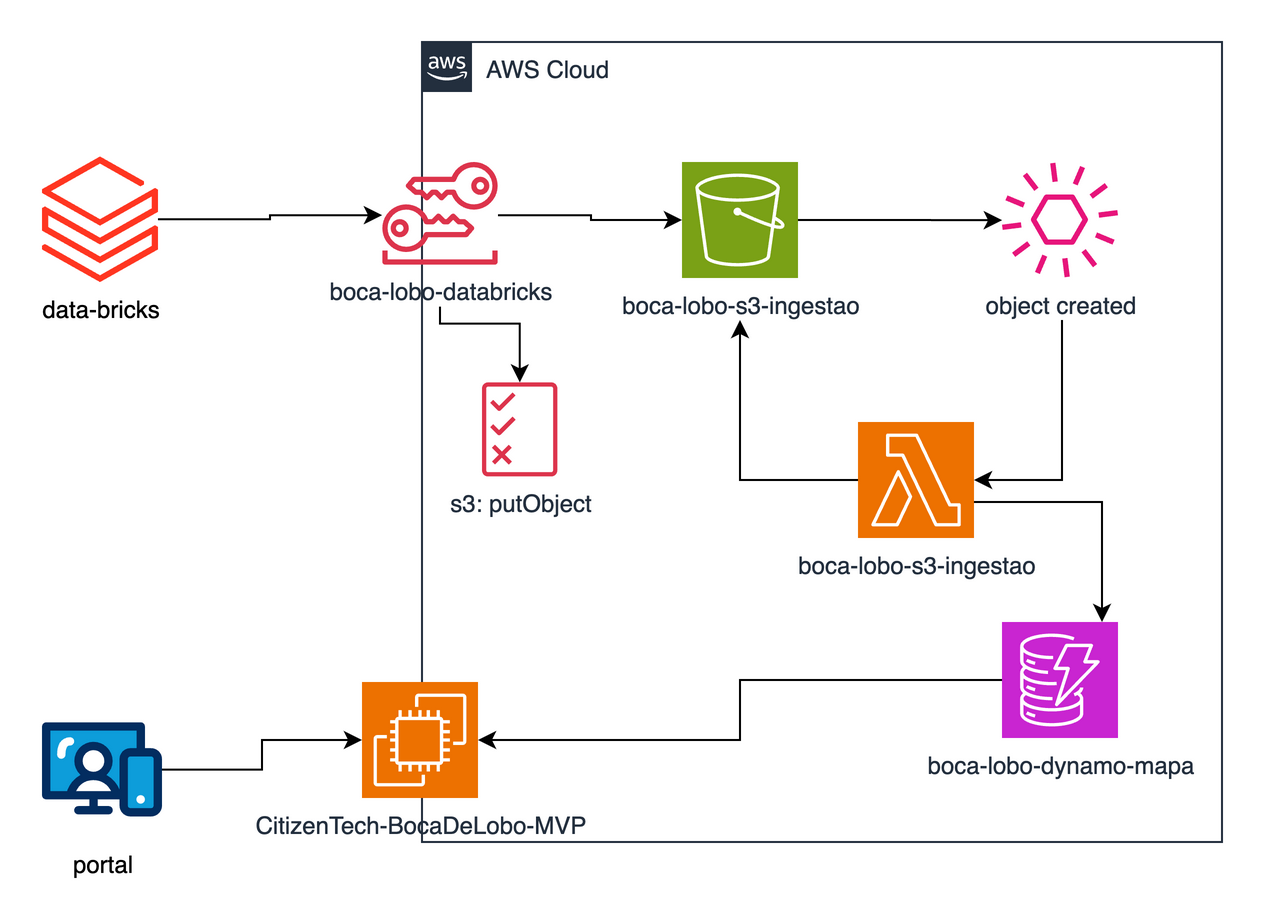
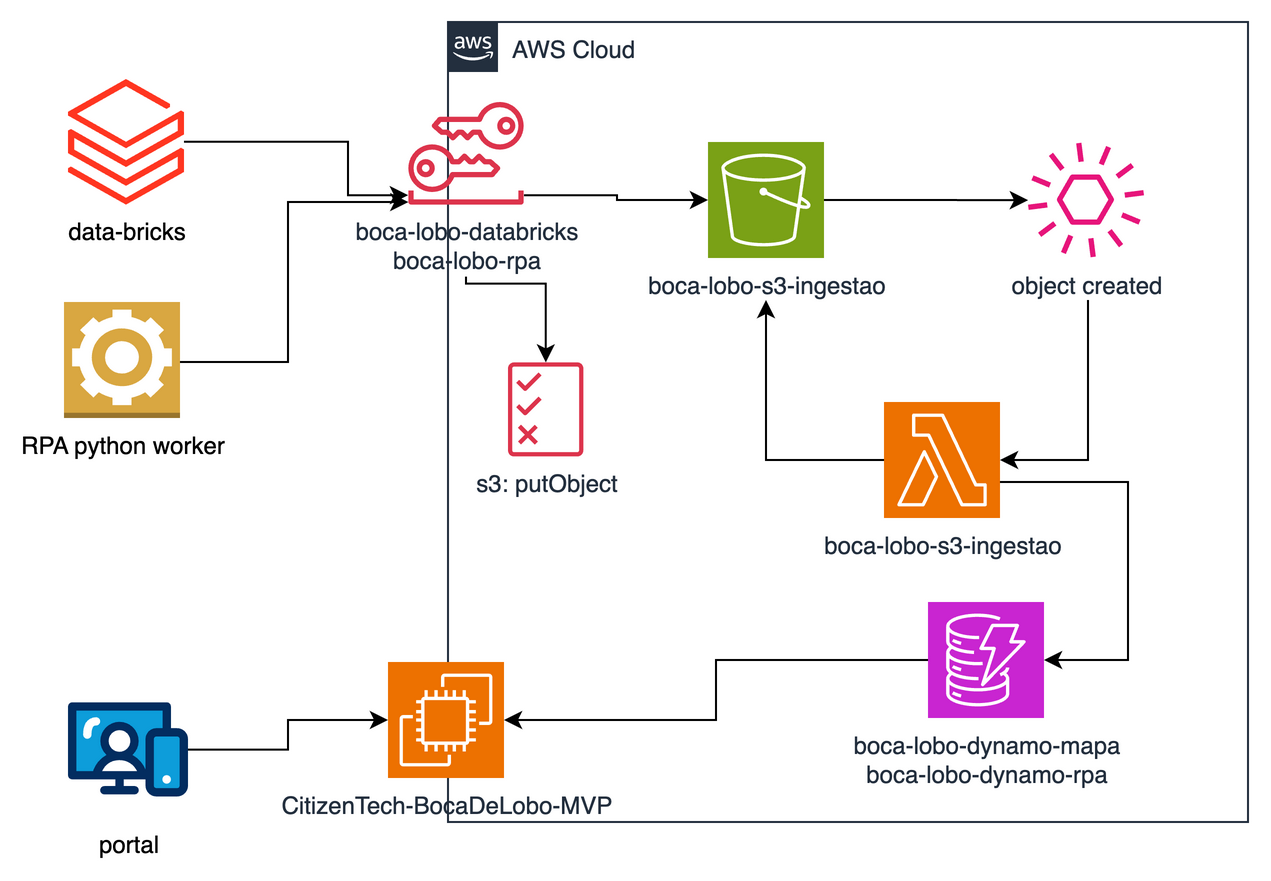
docs: fluxo do RPA, diagrama novo e ficha do produto
- readme: ficha do produto, fluxo por pasta e seção do fluxo do RPA
- docs/ingestao-dados.md: detalhes dos fluxos RPA e Databricks
- docs/arquitetura.drawio/png: diagrama atualizado com o RPA

Changed region(s): [[0.0, 0.0, 0.9866, 0.9501], [0.0308, 0.7662, 0.2158, 0.9807], [0.5858, 0.4904, 0.6166, 0.521]]

diff --git a/readme.md b/readme.md
@@ -5,15 +5,29 @@
 ## 🎯 Objetivo do Projeto
 O **Boca de Lobo** é um MVP de engenharia de software focado em segurança e emergências urbanas (enchentes). Antes de cada temporal, o sistema cruza o status de obstrução de bueiros/sarjetas com previsões meteorológicas para disparar ações preventivas para a equipe de limpeza e alertas de rota segura para moradores de regiões de risco.
 
+## 📋 Ficha do produto
+| Campo | Resposta |
+|---|---|
+| Nome do produto | Boca de Lobo |
+| Cidadão e território | Morador de bairro que alaga todo verão, principalmente em áreas baixas e periféricas de São Paulo (piloto na zona leste) |
+| Problema, em uma frase | Bueiro entupido + chuva forte = rua alagada, carro perdido e casa invadida, e ninguém avisa antes |
+| Proposta de valor | Saber antes da chuva quais bueiros estão entupidos em área de risco: a equipe de limpeza recebe a rota priorizada, e o morador sabe onde não passar e o que fazer |
+| Arquitetura: componentes | Robô de inspeção (Maker Lab) · YOLO + graduador de obstrução (Visão) · assistente com RAG e agente (GenAI) · pipeline Airflow → Databricks Bronze/Prata/Ouro (Big Data) · bot de alertas (RPA) · deploy na AWS com observabilidade (DevOps) · modelo de negócio (BI) · mapa público do cidadão (MVP) |
+| Fontes de dados | Open-Meteo (previsão de chuva) · Cemaden (pluviômetros) · GeoSampa (áreas de risco) · SP156 (pedidos de drenagem) · inspeções do robô (simuladas) · 22 fontes oficiais da Defesa Civil, Ministério da Saúde e Prefeitura (base do assistente) |
+| Modelos de IA utilizados | Visão: YOLOv8n (`yolov8n-bocadelobo-v2`) + graduador sobre CLIP ViT-B/32 e DINOv2 ViT-S/14 · GenAI: LLM `gemma3:4b` + embeddings `bge-m3`, locais (Ollama) · Robô: classificador embarcado livre/atenção/crítico (ultrassom) |
+| URL do MVP e repositório | MVP: [Boca de Lobo · Onde não passar hoje](https://felipevoidela.github.io/GS2-2026-Big-Data-Architecture/) · Repositório: [FelipeVoidela/GS2-2026-Big-Data-Architecture](https://github.com/FelipeVoidela/GS2-2026-Big-Data-Architecture) |
+| Indicadores de impacto | Pontos críticos em área de risco com chuva prevista · moradias e pessoas nessas áreas · tempo de espera no SP156. No export de 08/11/2026: 259 bocas de lobo no mapa, 12 em “Evite a área”, 905 moradias e 2.525 pessoas em área de risco com bueiro crítico |
+| ODS conectados | 11 (cidades resilientes, meta 11.5) · 13 (adaptação ao clima, meta 13.1) · 3 (saúde, doenças de veiculação hídrica, meta 3.3) |
+
 ## 🔗 Acesse a aplicação
 | Acesso | Link | O que é |
 |---|---|---|
-| Mapa do cidadão | [felipevoidela.github.io/GS2-2026-Big-Data-Architecture](https://felipevoidela.github.io/GS2-2026-Big-Data-Architecture/) | Frontend que consome a API e mostra onde não passar hoje |
+| Portal (MVP) | [felipevoidela.github.io/GS2-2026-Big-Data-Architecture](https://felipevoidela.github.io/GS2-2026-Big-Data-Architecture/) | Frontend que consome a API: aba *Onde não passar* (mapa do cidadão) e aba *Limpeza (RPA)* |
 | Swagger (OpenAPI) | [98-86-45-71.sslip.io/docs](https://98-86-45-71.sslip.io/docs) | Documentação interativa; permite testar as rotas pelo navegador |
 | Mapa (JSON) | [/api/v1/mapa](https://98-86-45-71.sslip.io/api/v1/mapa) | Retrato atual servido ao frontend |
 | Resumo | [/api/v1/mapa/resumo](https://98-86-45-71.sslip.io/api/v1/mapa/resumo) | Contagem de bocas de lobo por nível de alerta |
 | Limpeza (RPA) | [/api/v1/rpa](https://98-86-45-71.sslip.io/api/v1/rpa) | Última execução do bot RPA e as ordens de serviço |
-| Health check | [/health](https://98-86-45-71.sslip.io/health) | Estado da API e do carregamento do mapa |
+| Health check | [/health](https://98-86-45-71.sslip.io/health) | Estado da API e do carregamento do mapa e do resultado do RPA |
 | Métricas | [/metrics](https://98-86-45-71.sslip.io/metrics) | Métricas Prometheus coletadas pelo Grafana |
 
 ---
@@ -23,7 +37,9 @@ O **Boca de Lobo** é um MVP de engenharia de software focado em segurança e em
 
 ![Diagrama de arquitetura na AWS](docs/arquitetura.png)
 
-> Fonte editável do diagrama: [`docs/arquitetura.drawio`](docs/arquitetura.drawio) (draw.io). No desenho, a Lambda aparece com o rótulo do bucket; o nome real do recurso no Terraform é `boca-lobo-lambda-ingestor`.
+> Fonte editável do diagrama: [`docs/arquitetura.drawio`](docs/arquitetura.drawio) (draw.io). No desenho, a Lambda aparece com o rótulo do bucket; o nome real do recurso no Terraform é `boca-lobo-lambda-ingestor`. Os dois usuários IAM (`boca-lobo-databricks` e `boca-lobo-rpa`) e as duas tabelas (`boca-lobo-dynamo-mapa` e `boca-lobo-dynamo-rpa`) aparecem num mesmo ícone cada.
+>
+> Detalhes de cada fluxo (formato dos arquivos, validação, tabelas, rotas e como conferir uma execução): [docs/ingestao-dados.md](docs/ingestao-dados.md).
 
 ### Fluxo de dados
 O bucket de ingestão tem **uma pasta por fluxo**, todas com a mesma estrutura, e cada fluxo tem a sua tabela no DynamoDB:
@@ -48,18 +64,31 @@ s3://boca-lobo-s3-ingestao/
 5. A **API no EC2** lê as duas tabelas a cada 60 s e mantém o resultado em cache na memória. Se uma leitura falhar, continua servindo a última versão válida daquele fluxo, sem afetar o outro.
 6. O **portal** consulta a API por HTTPS: a aba *Onde não passar* desenha o mapa do cidadão e a aba *Limpeza (RPA)* mostra a última execução do bot e a lista de bocas de lobo para limpar.
 
+#### Fluxo do RPA
+O **`RPA python worker`** é o bot de prevenção de alagamentos. Todo dia às 06:00 ele consulta a previsão de chuva, decide o nível de risco (`NORMAL`/`ATENCAO`/`ALERTA`), lê as inspeções do robô, prioriza as bocas de lobo e distribui as ordens de serviço entre as equipes de limpeza. O resultado de cada execução chega ao portal assim:
+
+```
+RPA python worker ──PutObject (boca-lobo-rpa)──► s3 rpa/entrada/bocaLobo_<data>_<hora>.json
+   ──object created──► Lambda (valida) ──► DynamoDB boca-lobo-dynamo-rpa (item rpa_atual) ──► rpa/processado/
+   ──► API no EC2 (cache 60 s): GET /api/v1/rpa ──► portal, aba "Limpeza (RPA)"
+```
+
+- **O que o bot envia:** um JSON por execução com `execucao` (início e fim, nível e chuva prevista em 24 h, pico e probabilidade, fonte da previsão, inspeções lidas/válidas/rejeitadas/duplicadas, ordens e alertas, status final) e `ordens_servico` (código do bueiro, endereço e área, coordenadas, % de obstrução e tipo de lixo, nota de 0 a 100 e prioridade, equipe e status, se precisa reinspecionar).
+- **O que a Lambda faz:** recusa o arquivo inteiro se faltar campo obrigatório ou se algum valor estiver fora do domínio (prioridade, status, nível, notas de 0 a 100, coordenadas fora de SP, bueiro repetido). Nesse caso ele vai para `rpa/quarentena/` com o motivo. Arquivo válido substitui o item `rpa_atual` só se a execução for igual ou mais nova que a publicada.
+- **LGPD:** só a execução e as ordens de serviço vão para o DynamoDB e para a API. Alertas, contatos mascarados de moradores e textos livres do bot ficam de fora.
+- **Credencial:** o bot usa o usuário `boca-lobo-rpa`, que só pode `PutObject` em `rpa/entrada/*`. A access key fica nos segredos do bot, nunca no código nem no Terraform state.
+
 ### Componentes
 | Componente (no diagrama) | Serviço | Papel na solução |
 |---|---|---|
 | `data-bricks` | Databricks (fora da AWS) | Executa os notebooks Bronze/Prata/Ouro e gera o `mapa_cidadao.json` com as bocas de lobo e o nível de alerta de cada uma |
-| `boca-lobo-databricks` | IAM User | Identidade técnica do Databricks; só pode gravar (`s3:PutObject`) em `databricks/entrada/` |
+| `RPA python worker` | Bot RPA em Python (fora da AWS) | Roda todo dia às 06:00: previsão de chuva, decisão do nível de risco, priorização das bocas de lobo e ordens de serviço para as equipes; envia o resultado de cada execução para `rpa/entrada/` |
+| `boca-lobo-databricks` / `boca-lobo-rpa` | IAM Users | Uma identidade técnica por fluxo: o Databricks só pode gravar (`s3:PutObject`) em `databricks/entrada/`, e o bot RPA só em `rpa/entrada/` |
 | `s3: putObject` | IAM Policy | Política de menor privilégio dos usuários técnicos: não leem, não listam e não apagam nada |
-| `boca-lobo-rpa` | IAM User | Identidade técnica do bot RPA; só pode gravar (`s3:PutObject`) em `rpa/entrada/` |
 | `boca-lobo-s3-ingestao` | Amazon S3 | Bucket privado, versionado e criptografado, com uma pasta por fluxo (`databricks/`, `rpa/`); cada uma recebe em `entrada/`, guarda o histórico em `processado/` (90 dias) e os recusados em `quarentena/` (30 dias); exige HTTPS |
 | `object created` | Evento S3 | Notificação `s3:ObjectCreated` filtrada por `databricks/entrada/*.json` e `rpa/entrada/*.json`, que dispara a Lambda |
 | Lambda | AWS Lambda | `boca-lobo-lambda-ingestor` (Python 3.12, arm64, 256 MB): identifica o fluxo pela pasta, valida o JSON, publica na tabela do fluxo e move o arquivo |
-| `boca-lobo-dynamo-mapa` | Amazon DynamoDB | Fluxo databricks. Tabela provisionada (5 RCU / 12 WCU) com um único item `mapa_atual` contendo os pontos compactados em gzip (~11 KB) |
-| `boca-lobo-dynamo-rpa` | Amazon DynamoDB | Fluxo rpa. Tabela provisionada (5 RCU / 5 WCU) com um único item `rpa_atual`: última execução do bot e ordens de serviço compactadas em gzip (~2 KB). Somadas, as duas tabelas ficam no Always Free (10 RCU / 17 WCU de 25) |
+| `boca-lobo-dynamo-mapa` / `boca-lobo-dynamo-rpa` | Amazon DynamoDB | Uma tabela por fluxo, provisionadas e criptografadas, cada uma com um único item compactado em gzip: **mapa** (5 RCU / 12 WCU, item `mapa_atual` com os pontos do mapa, ~11 KB) e **rpa** (5 RCU / 5 WCU, item `rpa_atual` com a última execução do bot e as ordens de serviço, ~2 KB). Somadas, ficam no Always Free (10 RCU / 17 WCU de 25) |
 | `CitizenTech-BocaDeLobo-MVP` | Amazon EC2 | `t3.micro` (Ubuntu 24.04) com Elastic IP, executando os containers Caddy e API; lê o DynamoDB com a IAM Role da instância |
 | `portal` | Frontend web | MVP (GitHub Pages) que consome a API via HTTPS: mapa do cidadão e aba de limpeza do bot RPA |
 
@@ -67,7 +96,8 @@ Recursos de apoio que não aparecem no diagrama: repositórios **ECR** (imagens 
 
 ### Decisões de arquitetura
 - **Cache com atualização em segundo plano:** o DynamoDB recebe cerca de uma leitura por minuto, independentemente do número de visitantes, o que mantém a tabela no Always Free mesmo em picos de acesso durante uma tempestade.
-- **DynamoDB provisionado em vez de on-demand:** 5 RCU e 12 WCU ficam abaixo do limite gratuito permanente de 25 RCU/25 WCU por conta.
+- **DynamoDB provisionado em vez de on-demand:** somadas, as duas tabelas usam 10 RCU e 17 WCU (mapa 5/12, rpa 5/5), abaixo do limite gratuito permanente de 25 RCU/25 WCU por conta.
+- **Uma pasta, um usuário e uma tabela por fluxo:** Databricks e RPA têm a mesma estrutura no bucket (`entrada/`, `processado/`, `quarentena/`) e a mesma Lambda, mas cada um só consegue gravar na sua pasta e publica na sua tabela. Um novo fluxo entra com uma pasta, um usuário, uma tabela e uma função de validação.
 - **Validação na entrada:** dados quebrados vindos do pipeline não chegam ao cidadão; ficam isolados em quarentena para análise.
 - **HTTPS sem domínio próprio:** o sslip.io resolve `98-86-45-71.sslip.io` para o Elastic IP, e o Caddy emite o certificado Let's Encrypt automaticamente.
 
@@ -79,15 +109,15 @@ Recursos de apoio que não aparecem no diagrama: repositórios **ECR** (imagens 
 | Instância | IMDSv2 obrigatório, EBS criptografado, `unattended-upgrades` |
 | HTTP | HSTS, `X-Content-Type-Options`, `Referrer-Policy`; CORS só para a origem do frontend e só `GET` |
 | Identidade | Menor privilégio por identidade (EC2 só `GetItem`, Lambda só o necessário, Databricks só `PutObject` em `databricks/entrada/`, bot RPA só `PutObject` em `rpa/entrada/`); pipeline via GitHub OIDC, sem access keys |
-| Dados | S3 privado, versionado, criptografado e negando tráfego sem TLS; DynamoDB criptografado; camada Ouro anonimizada (LGPD) |
+| Dados | S3 privado, versionado, criptografado e negando tráfego sem TLS; DynamoDB criptografado; camada Ouro anonimizada e, do RPA, só execução e ordens de serviço (LGPD) |
 
 ---
 
 ## 🛠 Ficha Técnica
 | Tema | Implementação |
 |---|---|
-| Aplicação | API FastAPI (Python 3.11) que serve ao mapa do cidadão o retrato da camada Ouro lido do DynamoDB, com métricas Prometheus (4 sinais de ouro) |
-| Ingestão de dados | Databricks envia o export para o S3 → Lambda valida → DynamoDB (Always Free) |
+| Aplicação | API FastAPI (Python 3.11) que serve ao portal o retrato da camada Ouro e o resultado do bot RPA lidos do DynamoDB, com métricas Prometheus (4 sinais de ouro) |
+| Ingestão de dados | Databricks e bot RPA enviam para a pasta do seu fluxo no S3 → Lambda valida → tabela DynamoDB do fluxo (Always Free) |
 | Container | Multi-stage, usuário não-root (uid 10001), sem segredos, `read_only`, `cap_drop: ALL` |
 | Execução | Docker Compose no EC2 (`docker-compose.yml`): Caddy (HTTPS Let's Encrypt via sslip.io) + API |
 | Nuvem (IaC) | Terraform na AWS: EC2 + SG + EIP + ECR + S3 + Lambda + DynamoDB + IAM; state remoto em S3 com lock |
@@ -98,21 +128,21 @@ Recursos de apoio que não aparecem no diagrama: repositórios **ECR** (imagens 
 
 Documentação complementar:
 - [Arquitetura, fluxo de dados e segurança](#arquitetura) (nesta página)
-- [Ingestão do mapa: Databricks → S3 → Lambda → DynamoDB](docs/ingestao-dados.md)
+- [Ingestão de dados: Databricks e RPA → S3 → Lambda → DynamoDB → API](docs/ingestao-dados.md)
 - [Pré-requisitos AWS: role de deploy, OIDC e bucket do state](docs/aws-role.md)
 - [Evidências (pipeline barrada/corrigida, dashboard, alerta)](docs/evidencias.md)
 
 ### Estrutura
 ```
 app/                     API FastAPI + Dockerfile + testes          → container no EC2
-lambda/ingestor/         Lambda que valida o JSON e grava no Dynamo → publicada pelo Terraform
+lambda/ingestor/         Lambda que valida o JSON de cada fluxo e grava na tabela dele → publicada pelo Terraform
 proxy/                   Imagem do Caddy (Caddyfile embutido) — proxy HTTPS (Let's Encrypt)
 docker-compose.yml       Stack executada no EC2 (proxy + api)
 terraform/               main.tf (EC2/SG/EIP/ECR) + data.tf (S3/Lambda/DynamoDB/IAM)
 .github/workflows/       Pipeline CI/CD única do monorepo
 monitoring/              Prometheus, Alertmanager, Grafana (local)
 scripts/                 publicar_mapa, gen-targets, load, trigger-alert
-docs/                    Diagrama de arquitetura (PNG + fonte draw.io)
+docs/                    Diagrama de arquitetura (PNG + fonte draw.io) e ingestao-dados.md
 ```
 
 ---

diff --git a/docs/ingestao-dados.md b/docs/ingestao-dados.md
@@ -1,0 +1,213 @@
+# Ingestão de dados: Databricks e RPA → S3 → Lambda → DynamoDB → API
+
+![Diagrama de arquitetura na AWS](arquitetura.png)
+
+Dois fluxos externos alimentam o MVP. Os dois seguem o mesmo caminho na AWS. Cada um tem a sua pasta no bucket,
+o seu usuário IAM e a sua tabela no DynamoDB:
+
+| Fluxo | Quem envia | Usuário IAM | Pasta no bucket | Tabela DynamoDB (item) | Rota da API | Onde aparece no portal |
+|---|---|---|---|---|---|---|
+| **databricks** | Notebook `03_ouro.py` (camada Ouro) | `boca-lobo-databricks` | `databricks/` | `boca-lobo-dynamo-mapa` (`mapa_atual`) | `/api/v1/mapa` | aba *Onde não passar* |
+| **rpa** | `RPA python worker` (bot de limpeza) | `boca-lobo-rpa` | `rpa/` | `boca-lobo-dynamo-rpa` (`rpa_atual`) | `/api/v1/rpa` | aba *Limpeza (RPA)* |
+
+```
+s3://boca-lobo-s3-ingestao/
+├── databricks/
+│   ├── entrada/      ← o Databricks grava aqui
+│   ├── processado/   ← a Lambda move os aceitos (90 dias)
+│   └── quarentena/   ← a Lambda move os recusados, com o motivo (30 dias)
+└── rpa/
+    ├── entrada/      ← o bot RPA grava aqui
+    ├── processado/
+    └── quarentena/
+```
+
+**Regra comum aos dois fluxos:** quem envia só grava em `<fluxo>/entrada/`. A Lambda é quem tira o arquivo de
+`entrada/` e o move para `processado/` ou `quarentena/`. Ela nunca grava em `entrada/`, e só `<fluxo>/entrada/*.json`
+dispara o evento. Assim, os arquivos que ela mesma move não são processados de novo.
+
+---
+
+## Fluxo do RPA
+
+O **bot RPA** (`RPA python worker`, no diagrama) roda todo dia às 06:00. Ele consulta a previsão de chuva (Open-Meteo),
+decide o nível de risco, lê as inspeções do robô nas bocas de lobo, calcula a prioridade de cada uma e distribui as
+ordens de serviço entre as equipes de limpeza. Ao final de cada execução, ele publica o resultado na AWS para a API e
+o portal.
+
+```
+RPA python worker
+   │  1. PutObject (HTTPS) com o usuário boca-lobo-rpa
+   ▼
+s3://boca-lobo-s3-ingestao/rpa/entrada/bocaLobo_<AAAAMMDD>_<HHMMSS>.json
+   │  2. evento "object created" (filtro rpa/entrada/*.json)
+   ▼
+Lambda boca-lobo-lambda-ingestor
+   │  3. identifica o fluxo pela pasta (rpa/) e valida o arquivo
+   ├──► inválido → rpa/quarentena/<arquivo>   (motivo nos metadados; a API segue com a última versão boa)
+   │
+   │  4. válido → grava o item "rpa_atual" (escrita condicional pela data da execução)
+   ▼
+DynamoDB boca-lobo-dynamo-rpa      e o arquivo vai para rpa/processado/<arquivo>
+   │  5. a API no EC2 lê a tabela a cada 60 s (cache em memória)
+   ▼
+CitizenTech-BocaDeLobo-MVP  →  GET /api/v1/rpa  e  /api/v1/rpa/resumo
+   │  6. HTTPS (CORS só para o portal, só GET)
+   ▼
+portal → aba "Limpeza (RPA)": nível da chuva, contadores e a lista de bocas de lobo para limpar no mapa
+```
+
+### 1. Envio pelo bot
+
+| Item | Valor |
+|---|---|
+| Destino | `s3://boca-lobo-s3-ingestao/rpa/entrada/<nome>.json` (um arquivo novo por execução, terminando em `.json`) |
+| Identidade | Usuário IAM `boca-lobo-rpa`, que só pode fazer `s3:PutObject` em `rpa/entrada/*`. Não lê, não lista e não apaga nada |
+| Credencial | Access key gerada pela CLI (`aws iam create-access-key --user-name boca-lobo-rpa`) e guardada como segredo do bot (`RPA_AWS_ACCESS_KEY_ID` / `RPA_AWS_SECRET_ACCESS_KEY`). Nunca vai para o código nem para o Terraform state |
+| Transporte | Só HTTPS: a política do bucket nega qualquer requisição sem TLS |
+| `Content-Type` | `application/json` |
+
+### 2. Conteúdo do arquivo
+
+O JSON tem `execucao` e `ordens_servico` na raiz. Outros campos que o bot envia (`alertas`, `historico_execucoes`,
+`bueiros_sem_inspecao`) são aceitos, mas **não seguem** para o DynamoDB.
+
+**`execucao`**: resumo da execução
+
+| Campo | Exemplo | Significado |
+|---|---|---|
+| `id` | `EX20261118T142640` | Identificador da execução (obrigatório) |
+| `inicio` / `fim` | `2026-11-18T14:26:40` | Data e hora no horário de São Paulo (`inicio` é obrigatório) |
+| `status` | `CONCLUIDO`, `CONCLUIDO_COM_PENDENCIAS`, `SEM_ACAO`, `FALHA_PREVISAO`, `FALHA_DADOS`, `FALHA` | Status final (obrigatório) |
+| `nivel` | `NORMAL`, `ATENCAO`, `ALERTA` | Nível da chuva. Ausente quando a previsão falhou |
+| `justificativa` | `75.0 mm em 24h >= 50 mm (alerta)` | Por que esse nível foi escolhido |
+| `chuva_24h_mm`, `pico_mm_h`, `probabilidade_max_pct` | `75.0`, `22.5`, `90.0` | Chuva prevista em 24 h, pico por hora e probabilidade |
+| `fonte_previsao` | `open-meteo`, `cache (2.0h atrás)`, `simulacao` | De onde veio a previsão |
+| `linhas_lidas`, `inspecoes_validas`, `rejeitados`, `duplicados`, `arquivos_invalidos` | `44`, `23`, `7`, `2`, `1` | Inspeções do robô lidas e o resultado da validação |
+| `ordens_geradas`, `excedentes` | `19`, `4` | Ordens de serviço criadas e quantas ficaram sem equipe |
+| `alertas_enviados`, `alertas_ignorados`, `falhas_envio` | `0`, `17`, `0` | Alertas enviados, já enviados antes (idempotência) e falhas |
+| `codigo_saida` | `0` | Código de saída do bot |
+
+**`ordens_servico`**: bocas de lobo para limpar, da mais urgente para a menos urgente
+
+| Campo | Exemplo | Significado |
+|---|---|---|
+| `ordem` | `1` | Posição na fila de limpeza |
+| `id_bueiro` | `BL-001` | Código do bueiro (obrigatório, único no arquivo) |
+| `endereco`, `area_id`, `area`, `tipo` | `Rua das Garças, 664`, `AR-01`, `Jardim Pantanal`, `boca de lobo` | Endereço, área (bairro) e tipo |
+| `lat`, `lon` | `-23.4978`, `-46.4306` | Coordenadas (obrigatórias, dentro da Região Metropolitana de SP) |
+| `nivel_obstrucao`, `tipo_residuo` | `92.0`, `folhas` | % de obstrução (0 a 100) e tipo de lixo |
+| `score`, `prioridade` | `94.0`, `CRITICA` | Nota de 0 a 100 e prioridade (`CRITICA`, `ALTA` ou `MEDIA`) |
+| `nivel_risco_area` | `3` | Risco de alagamento da área (1 a 3) |
+| `equipe_id`, `status` | `EQ-01`, `ABERTA` | Equipe responsável e status (`ABERTA` ou `AGUARDANDO_REFORCO`, este sem equipe) |
+| `reinspecionar`, `data_inspecao`, `observacao` | `false`, `2026-11-16T09:05`, `""` | Se precisa de nova inspeção do robô, data da inspeção e observação |
+
+Uma execução sem ação (`SEM_ACAO`) ou com falha controlada chega com `ordens_servico: []`. Isso é válido: o portal
+mostra o status da execução e avisa que não há bocas de lobo para limpar.
+
+### 3. Validação na Lambda
+
+A Lambda (`lambda/ingestor/src/handler.py`, função `validar_rpa`) recusa o arquivo inteiro se encontrar:
+
+- JSON inválido, raiz que não é objeto, ou arquivo com mais de 5 MB;
+- `execucao` ou `ordens_servico` ausentes, ou com tipo errado;
+- `execucao.id`, `inicio` ou `status` vazios; `inicio`/`fim` que não são datas; `nivel` fora de `NORMAL`/`ATENCAO`/`ALERTA`;
+- contadores ou valores de chuva negativos ou que não são números;
+- ordem sem `id_bueiro`, com `lat`/`lon` fora de São Paulo, `nivel_obstrucao` ou `score` fora de 0 a 100;
+- `prioridade` fora de `CRITICA`/`ALTA`/`MEDIA`, `status` fora de `ABERTA`/`AGUARDANDO_REFORCO`, `reinspecionar` que não é verdadeiro/falso;
+- `id_bueiro` repetido.
+
+O arquivo recusado vai para `rpa/quarentena/` com o motivo no metadado `motivo` e no log
+`/aws/lambda/boca-lobo-lambda-ingestor` (evento `ingestao_rejeitada`). O que estava publicado continua no ar.
+
+### 4. Gravação no DynamoDB
+
+Tabela `boca-lobo-dynamo-rpa` (provisionada, 5 RCU / 5 WCU, criptografada), com um único item:
+
+| Atributo | Conteúdo |
+|---|---|
+| `pk` | `rpa_atual` |
+| `execucao_id`, `inicio`, `status`, `nivel`, `total_ordens` | Resumo para consulta rápida |
+| `inicio_utc` | `inicio` convertido para UTC, usado na escrita condicional |
+| `dados_gz` | `{"execucao": …, "ordens_servico": […]}` compactado com gzip (~2 KB para 19 ordens) |
+| `arquivo_origem`, `processado_em` | Rastreabilidade: de qual arquivo veio e quando foi publicado |
+
+- **Minimização (LGPD):** só a execução e as ordens de serviço são gravadas, e apenas com os campos listados acima.
+  Os alertas (IDs de moradores e contatos mascarados) e o texto livre `mensagem` do bot ficam fora da tabela.
+- **Escrita condicional:** o item só é substituído se a execução recebida for igual ou mais nova que a publicada
+  (`inicio_utc`). Um arquivo antigo reenviado vai para `rpa/processado/` com `status = ignorado_mais_antigo` e
+  não sobrescreve nada.
+
+### 5. API
+
+A API no EC2 lê `rpa_atual` a cada 60 s, com cache em memória independente do mapa: se a leitura do RPA falhar,
+ela continua servindo a última versão boa, e o mapa não é afetado.
+
+| Rota | Resposta |
+|---|---|
+| `GET /api/v1/rpa` | `execucao`, `ordens_servico` e `publicado_em` |
+| `GET /api/v1/rpa/resumo` | Nível e chuva da execução, total de ordens, contagem por prioridade e por status, quantas precisam de reinspeção |
+| `GET /health` | `rpa_carregado: true/false` |
+| `GET /metrics` | `rpa_execucao_inicio_timestamp_seconds`, `rpa_total_ordens`, `rpa_leitura_falhas_total` |
+
+Enquanto nenhum resultado foi publicado, as rotas do RPA respondem `503`.
+
+### 6. Portal
+
+A aba **Limpeza (RPA)** do portal mostra:
+
+- o nível da chuva, a chuva prevista, o pico, a probabilidade, a fonte da previsão e o status da execução;
+- as bocas de lobo para limpar, quantas aguardam reforço e os alertas enviados;
+- o resultado da validação das inspeções do robô;
+- a lista em ordem de urgência, com filtro por prioridade e marcações de *aguardando reforço* e *reinspecionar*;
+- uma camada própria no mapa, com cor por prioridade.
+
+Se a API do RPA estiver fora, só essa aba avisa. A aba *Onde não passar* continua funcionando.
+
+### Como conferir uma execução
+
+```bash
+# 1. o arquivo saiu de entrada/? (processado = aceito, quarentena = recusado)
+aws s3 ls s3://boca-lobo-s3-ingestao/rpa/ --recursive
+
+# 2. se foi para a quarentena, o motivo
+aws s3api head-object --bucket boca-lobo-s3-ingestao --key rpa/quarentena/<arquivo>.json --query Metadata
+
+# 3. o que está publicado no DynamoDB
+aws dynamodb get-item --table-name boca-lobo-dynamo-rpa --key '{"pk":{"S":"rpa_atual"}}' \
+  --query 'Item.[execucao_id.S,status.S,nivel.S,total_ordens.N]' --output text
+
+# 4. o que a API está servindo (até 60 s depois)
+curl -s https://98-86-45-71.sslip.io/api/v1/rpa/resumo
+```
+
+| Sintoma | Causa provável |
+|---|---|
+| `AccessDenied` (403) no envio do bot | Chave gravada fora de `rpa/entrada/`, ou credencial de outro usuário |
+| Arquivo parado em `rpa/entrada/` | Nome sem `.json`, ou gravado antes de a notificação existir (só arquivos novos disparam a Lambda): envie de novo |
+| Arquivo em `rpa/quarentena/` | Conteúdo recusado pela validação: veja o metadado `motivo` |
+| `processado/` com `status = ignorado_mais_antigo` | Já existe uma execução mais nova publicada |
+| `/api/v1/rpa` com dados antigos | Cache de 60 s, ou a leitura do DynamoDB falhou (veja `rpa_leitura_falhas_total` em `/metrics`) |
+
+---
+
+## Fluxo do Databricks
+
+O notebook `03_ouro.py` gera o `mapa_cidadao.json` a partir da view `ouro_vw_mapa_cidadao`, que não tem dados pessoais.
+Ele envia esse arquivo para `s3://boca-lobo-s3-ingestao/databricks/entrada/mapa_cidadao_<AAAAMMDDTHHMMSSZ>.json` com o
+usuário `boca-lobo-databricks`, cuja credencial fica no secret scope `gs` do Databricks.
+
+A Lambda valida:
+
+- `gerado_em` (data) e `pontos` (lista não vazia);
+- em cada ponto: `id_bueiro`, `latitude`, `longitude`, `logradouro`, `nivel_alerta` e `recomendacao`;
+- `nivel_alerta` em `EVITE A AREA`, `ATENCAO` ou `NORMAL`;
+- coordenadas dentro de São Paulo e IDs sem repetição.
+
+Se o arquivo for válido, a Lambda grava o item `mapa_atual` em `boca-lobo-dynamo-mapa` (pontos em gzip, escrita
+condicional por `gerado_em_utc`) e move o arquivo para `databricks/processado/`. Se não for, ele vai para
+`databricks/quarentena/`. A API serve o resultado em `/api/v1/mapa` e `/api/v1/mapa/resumo`.
+
+Plano B, quando o Databricks não consegue enviar direto: baixe o JSON do Volume e rode
+`scripts/publicar_mapa.sh caminho/mapa_cidadao.json`. O script envia para `databricks/entrada/` e espera a resposta da
+Lambda.
